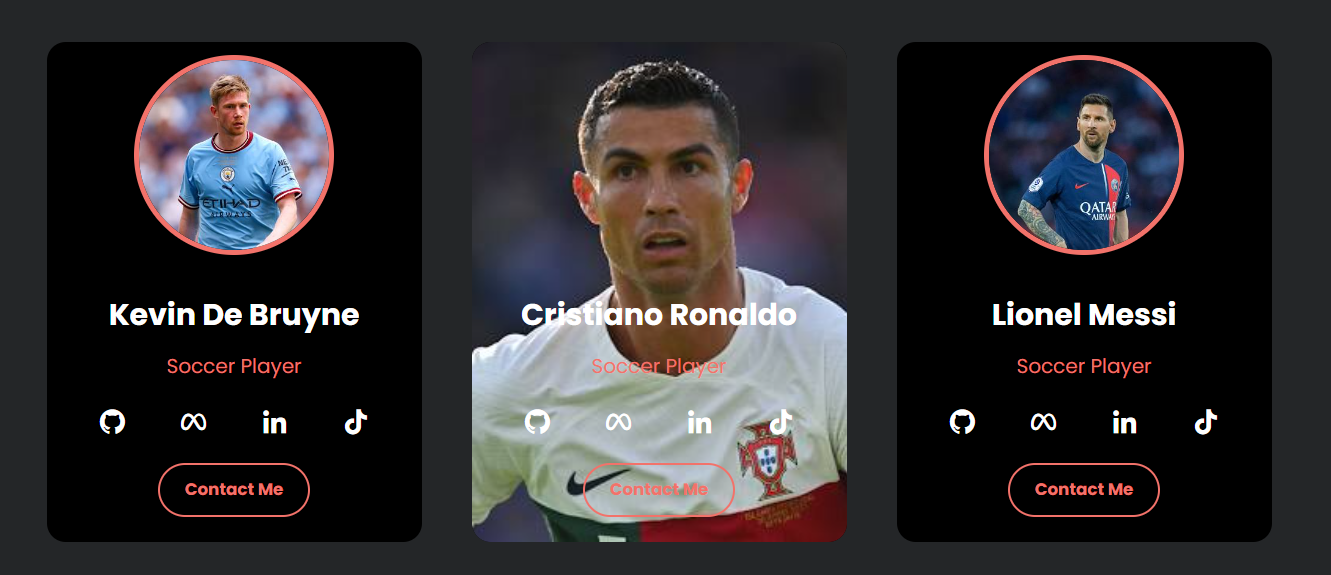
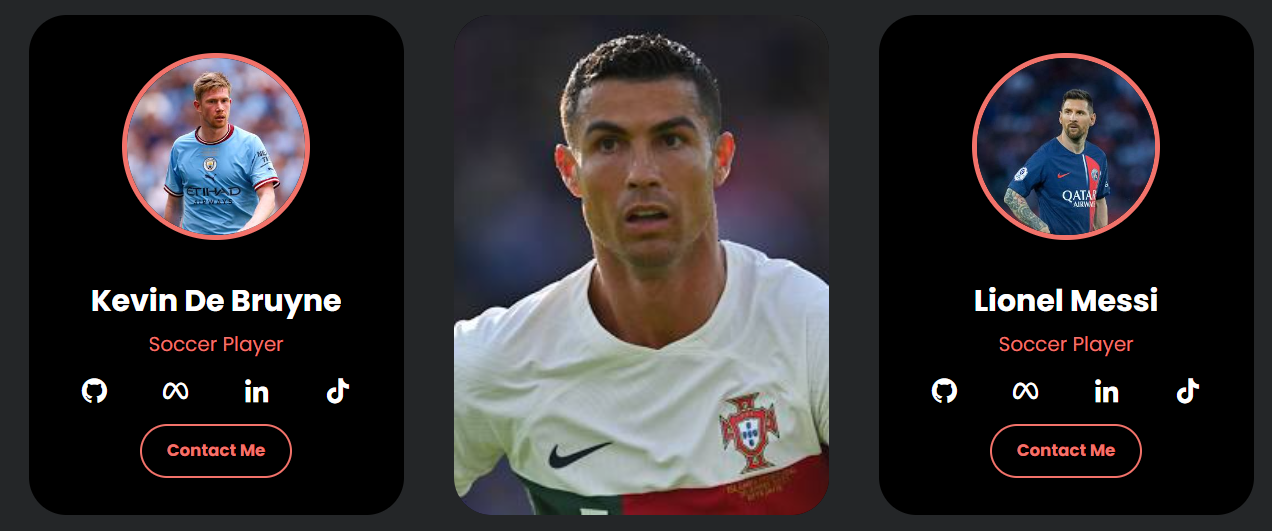
adjust info to move down when hovering image

diff --git a/2. Profile Card/index.html b/2. Profile Card/index.html
@@ -17,7 +17,7 @@
             <p class="job">Soccer Player</p>
             <div class="socials">
                 <i class='bx bxl-github'></i>
-                <i class='bx bxl-meta' ></i>
+                <i class='bx bxl-instagram'></i>
                 <i class='bx bxl-linkedin' ></i>
                 <i class='bx bxl-tiktok' ></i>
             </div>
@@ -34,7 +34,7 @@
             <p class="job">Soccer Player</p>
             <div class="socials">
                 <i class='bx bxl-github'></i>
-                <i class='bx bxl-meta' ></i>
+                <i class='bx bxl-instagram'></i>
                 <i class='bx bxl-linkedin' ></i>
                 <i class='bx bxl-tiktok' ></i>
             </div>
@@ -51,7 +51,7 @@
             <p class="job">Soccer Player</p>
             <div class="socials">
                 <i class='bx bxl-github'></i>
-                <i class='bx bxl-meta' ></i>
+                <i class='bx bxl-instagram'></i>
                 <i class='bx bxl-linkedin' ></i>
                 <i class='bx bxl-tiktok' ></i>
             </div>

diff --git a/2. Profile Card/style.css b/2. Profile Card/style.css
@@ -13,29 +13,29 @@
 }
 
 body{
+    height: 100vh;
     display: flex;
     justify-content: center;
     align-items: center;
     background-color: #242628;
-    height: 100vh;
 }
 
 .card{
-    background-color: rgb(0, 0, 0);
-    border-radius: 30px;
     height: 400px;
     width: 300px;
-    overflow: hidden;
+    background-color: rgb(0, 0, 0);
     margin: 20px;
+    border-radius: 30px;
+    overflow: hidden;
 }
 
 .image{
-    border: 4px solid var(--primary-color);
-    border-radius: 50%;
-    object-fit: cover;
     height: 150px;
     width: 150px;
     margin: 30px auto;
+    border: 4px solid var(--primary-color);
+    border-radius: 50%;
+    object-fit: cover;
     overflow: hidden;
 }
 
@@ -79,8 +79,8 @@ p{
 
 .socials{
     display: flex;
-    width: 100%;
     justify-content: space-around;
+    width: 100%;
     padding: 10px 20px;
 }
 

diff --git a/2. Profile Card/README.md b/2. Profile Card/README.md
@@ -1,5 +1,5 @@
 <h1> Profile Card </h1>
-<h2>This challege reinforces knowledges about relative position, abosolute position, overflow, transform, object-fit,  etc.
+<h2>This challege reinforces knowledges about overflow, transform, object-fit,  etc.
 The goal is to make animated profile card that transforms when hovering.</h2>
 
   <img src="./public/images/demo.png" width="1000px"  />
